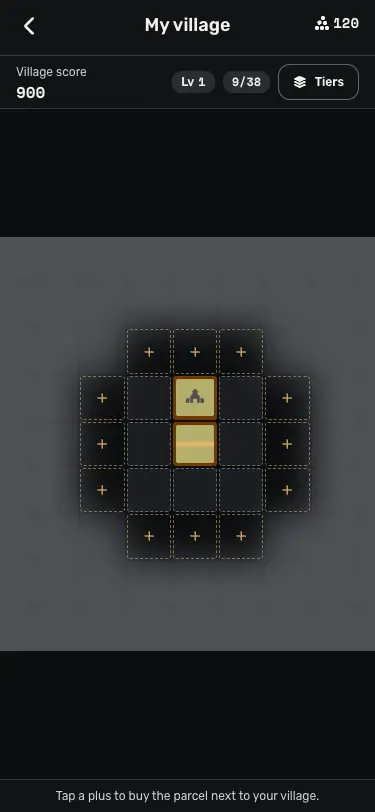
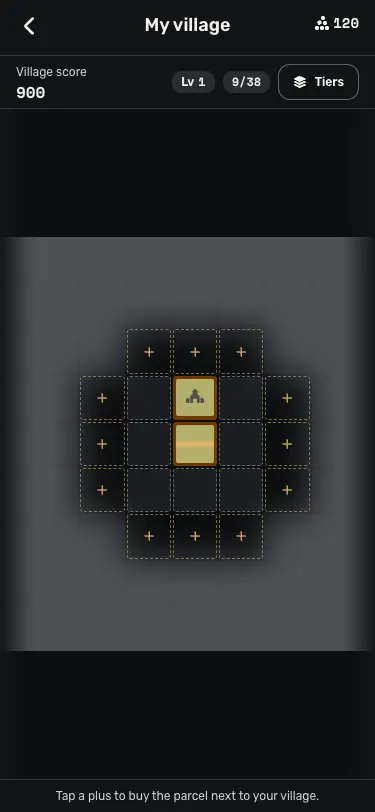
VILLAGE-SCREEN: the board scrolls in a ScrollRegion (both axes)
ScrollRegion takes orientation "both" for a plan larger than the screen
either way; the village board scrolls in it, with the edge hint, instead of a
plain scrolling box. Captures retaken.

Changed region(s): [[0.9387, 0.2771, 1.0, 0.8005], [0.0, 0.2771, 0.0587, 0.8005]]

diff --git a/packages/app/src/components/containers/village-board.tsx b/packages/app/src/components/containers/village-board.tsx
@@ -4,6 +4,7 @@ import { cn } from "../../lib/utils";
 import { TierBase } from "../elements/tier-base";
 import { TileChip, type TileArt } from "../elements/tile-chip";
 import { Icon } from "../ui/icon";
+import { ScrollRegion } from "../ui/scroll-region";
 import { TIERS, buyableCells, cellKey, clearCells, tierOf, tierProgress, type Cell, type LegalCell, type Village } from "./village-rules";
 
 /**
@@ -85,11 +86,11 @@ export function cellName(c: Cell): string {
  * pointer. Shared with the PvP flow (#647): the attack draws the defender's territory with it (`parcels` off).
  */
 export function VillageBoard({ village, fog = "village", parcels = false, parcel, placing, over, tileArt, onParcel, onPlace, onCopy, className }: VillageBoardProps) {
-  const scroller = useRef<HTMLDivElement>(null);
-  // A board wider than the screen opens on its middle, where the village is.
+  const grid = useRef<HTMLDivElement>(null);
+  // A board wider than the screen opens on its middle, where the village is (the scroll region holds the grid).
   const extent = village.cells.length;
   useLayoutEffect(() => {
-    const el = scroller.current;
+    const el = grid.current?.parentElement;
     if (!el) return;
     el.scrollLeft = (el.scrollWidth - el.clientWidth) / 2;
     el.scrollTop = (el.scrollHeight - el.clientHeight) / 2;
@@ -231,8 +232,9 @@ export function VillageBoard({ village, fog = "village", parcels = false, parcel
 
   return (
     // `safe center`: a board wider than the screen scrolls from its edge, not from a centre cut off on both sides.
-    <div ref={scroller} className={cn("grid size-full overflow-auto bg-board p-4", className)} style={{ placeItems: "safe center" }}>
+    <ScrollRegion orientation="both" className={cn("grid size-full bg-board p-4", className)} style={{ placeItems: "safe center" }}>
       <div
+        ref={grid}
         role={placing || buyable.length ? "group" : "img"}
         aria-label={`Village of ${village.cells.length} cells and ${village.tiles.length} tiles`}
         className="relative grid shrink-0 gap-0.5"
@@ -247,6 +249,6 @@ export function VillageBoard({ village, fog = "village", parcels = false, parcel
         {cells}
         {fog === "village" && <FogVeil clear={clearList} minX={minX} maxY={maxY} cols={cols} rows={rows} />}
       </div>
-    </div>
+    </ScrollRegion>
   );
 }

diff --git a/packages/app/src/components/ui/scroll-region.tsx b/packages/app/src/components/ui/scroll-region.tsx
@@ -5,14 +5,15 @@ import { cn } from "../../lib/utils";
 /**
  * A plain scrolling box with the edge hint (NO-SCROLLBARS, issue 609): no scrollbar on desktop (theme.css), a soft fade on the
  * side where more content waits (`scroll-hint`). Every scrollable region of the app is one of these or a `ScrollArea`.
- * `orientation` picks the overflow; the hint follows whichever axis actually scrolls.
+ * `orientation` picks the overflow (`both` for a plan larger than the screen both ways); the hint follows whichever axis
+ * actually scrolls.
  */
-export function ScrollRegion({ className, orientation = "vertical", ...props }: ComponentProps<"div"> & { orientation?: "vertical" | "horizontal" }) {
+export function ScrollRegion({ className, orientation = "vertical", ...props }: ComponentProps<"div"> & { orientation?: "vertical" | "horizontal" | "both" }) {
   return (
     <div
       ref={scrollHintRef}
       data-slot="scroll-region"
-      className={cn("scroll-hint", orientation === "vertical" ? "overflow-y-auto" : "overflow-x-auto", className)}
+      className={cn("scroll-hint", orientation === "both" ? "overflow-auto" : orientation === "vertical" ? "overflow-y-auto" : "overflow-x-auto", className)}
       {...props}
     />
   );
